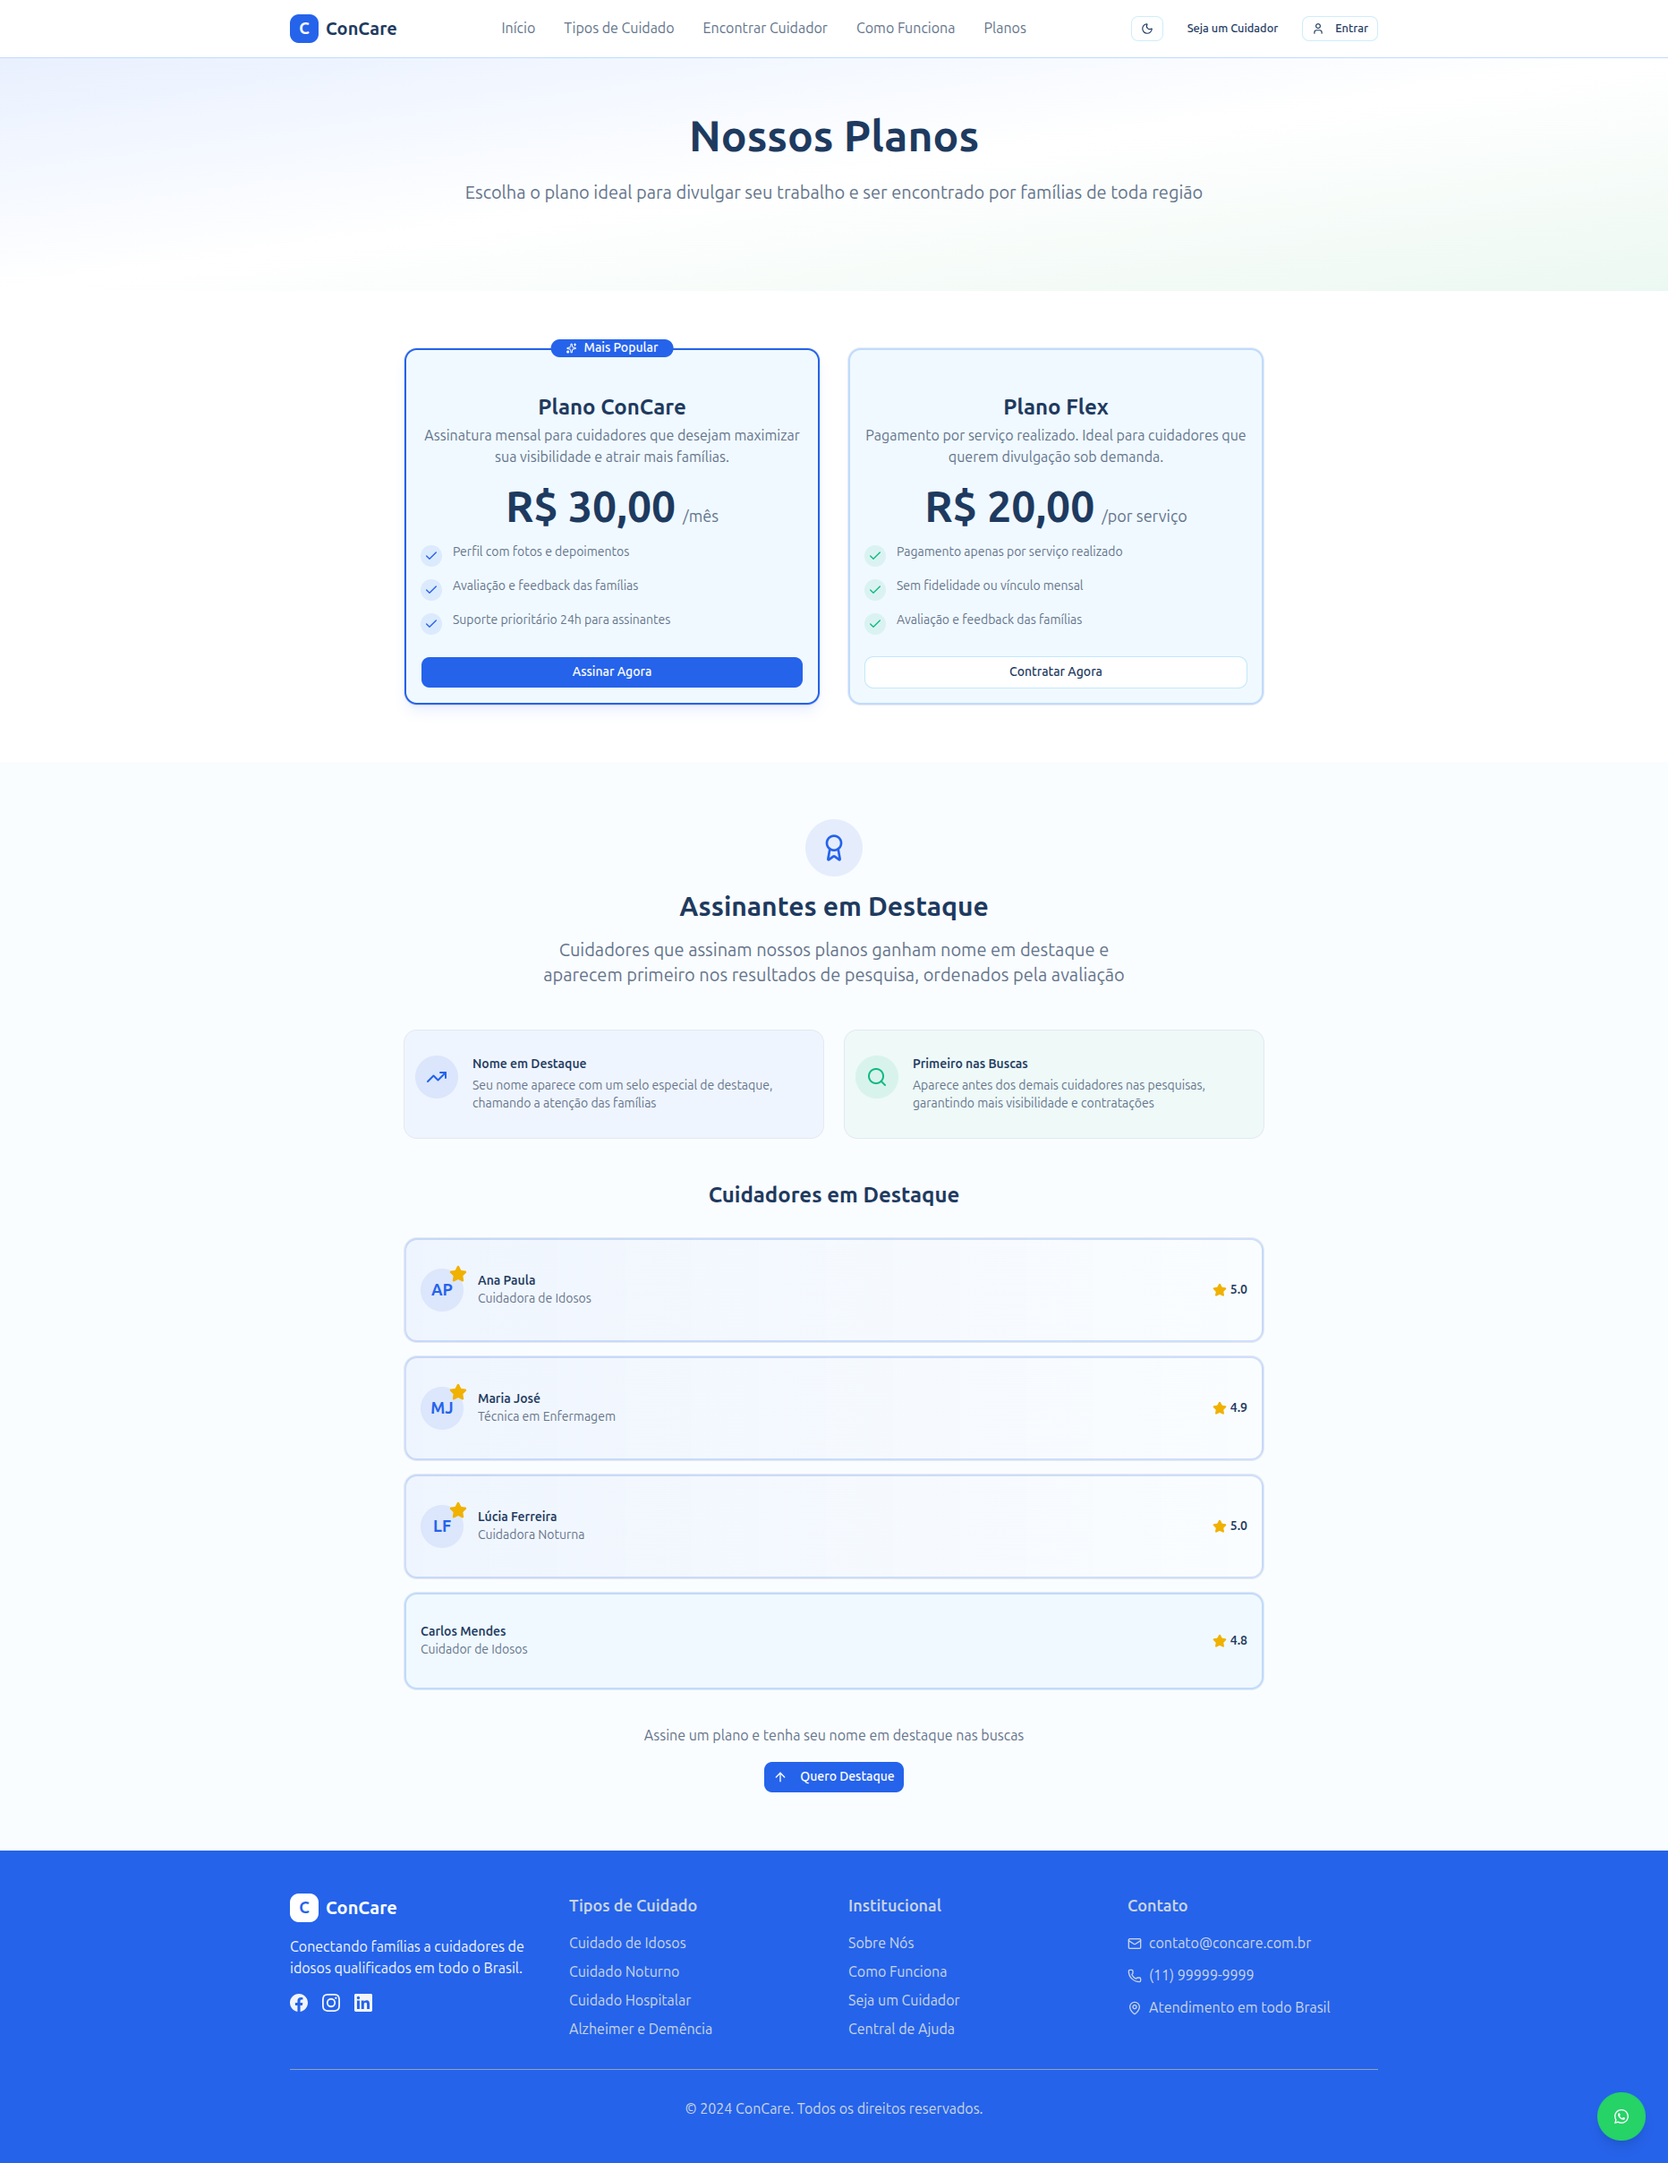
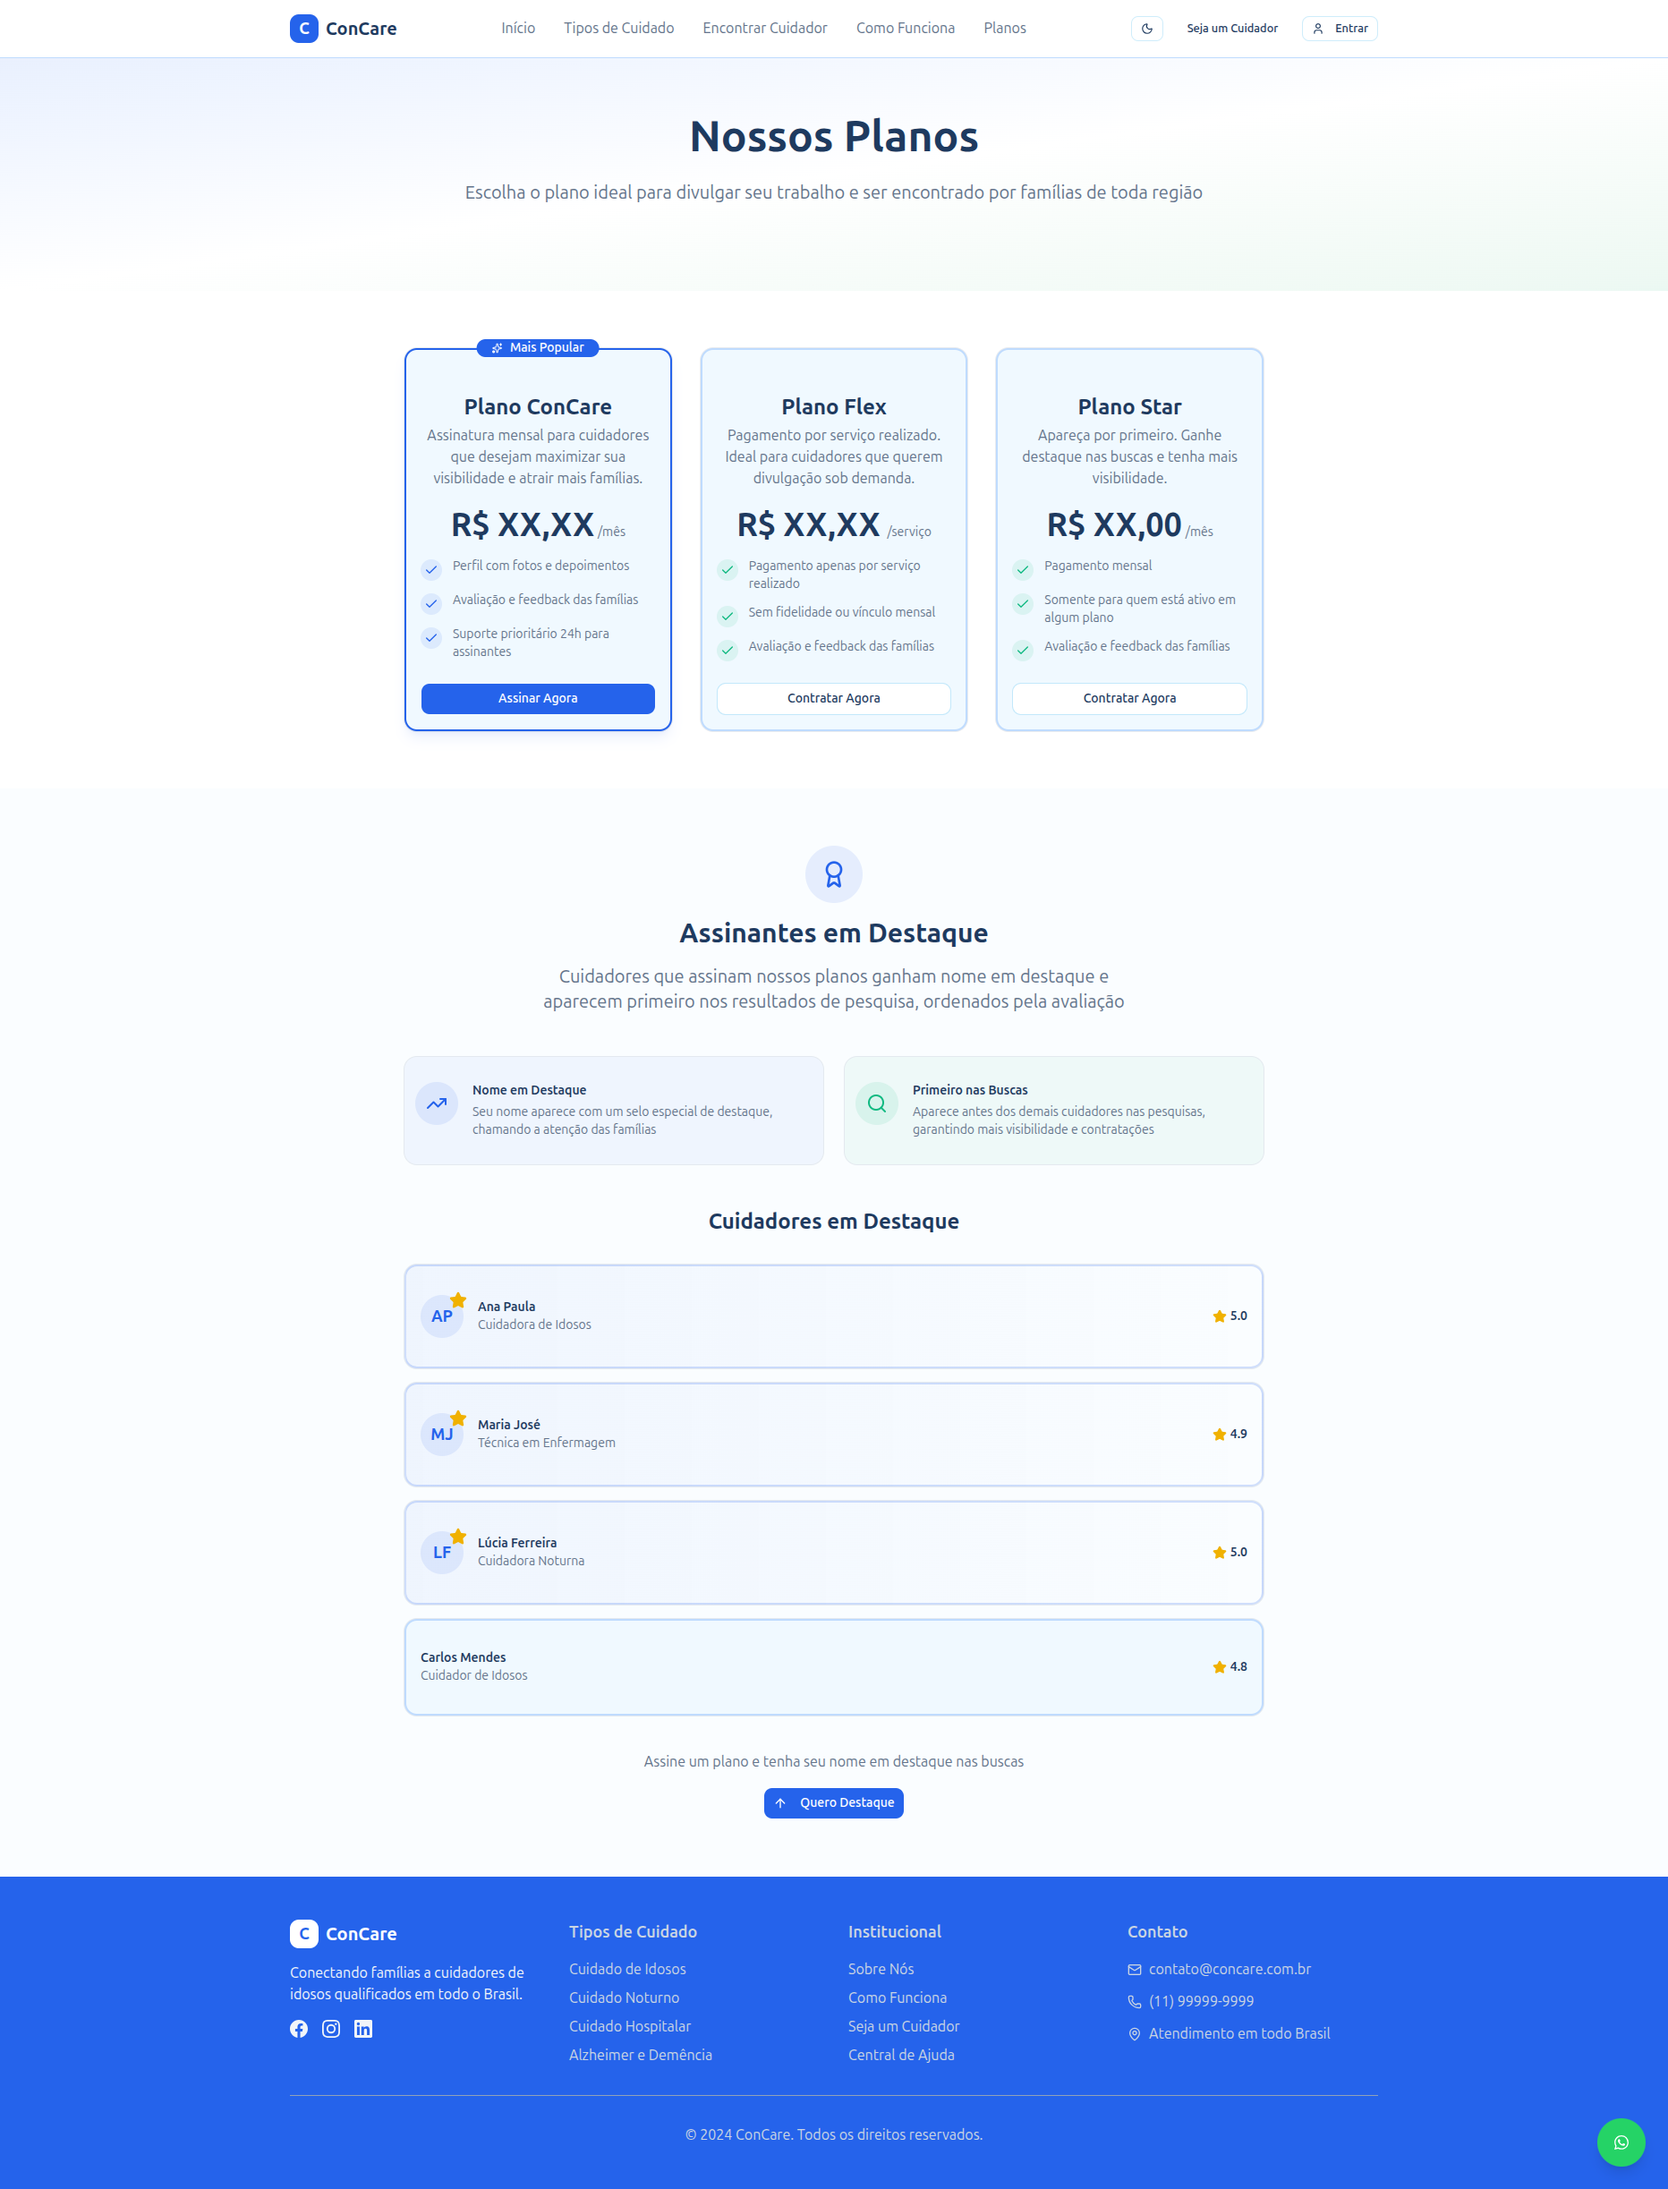
Plans

diff --git a/src/pages/PlanosPage.jsx b/src/pages/PlanosPage.jsx
@@ -8,7 +8,7 @@ import { Check, Star, Sparkles, TrendingUp, Search, Award, ArrowUp } from "lucid
 
 const planoMensal = {
     nome: "Plano ConCare",
-    preco: "30,00",
+    preco: "XX,XX",
     periodo: "mês",
     descricao: "Assinatura mensal para cuidadores que desejam maximizar sua visibilidade e atrair mais famílias.",
     destaque: true,
@@ -21,13 +21,26 @@ const planoMensal = {
 
 const planoOnDemand = {
     nome: "Plano Flex",
-    preco: "20,00",
-    periodo: "por serviço",
+    preco: "XX,XX",
+    periodo: "serviço",
     descricao: "Pagamento por serviço realizado. Ideal para cuidadores que querem divulgação sob demanda.",
     destaque: false,
     beneficios: [
         "Pagamento apenas por serviço realizado",
         "Sem fidelidade ou vínculo mensal",
+        "Avaliação e feedback das famílias",
+    ],
+}
+
+const planoStar = {
+    nome: "Plano Star",
+    preco: "XX,00",
+    periodo: "mês",
+    descricao: "Apareça por primeiro. Ganhe destaque nas buscas e tenha mais visibilidade.",
+    destaque: false,
+    beneficios: [
+        "Pagamento mensal",
+        "Somente para quem está ativo em algum plano",
         "Avaliação e feedback das famílias",
     ],
 }
@@ -77,7 +90,7 @@ export default function PlanosPage() {
 
                 <section className="py-16 bg-background">
                     <div className="max-w-5xl mx-auto px-4 sm:px-6 lg:px-8">
-                        <div className="grid md:grid-cols-2 gap-8">
+                        <div className="grid md:grid-cols-3 gap-8">
                             <Card className={`relative border-2 overflow-visible ${planoMensal.destaque ? 'border-primary shadow-lg shadow-primary/10' : 'border-border'}`}>
                                 {planoMensal.destaque && (
                                     <Badge className="absolute -top-3 left-1/2 -translate-x-1/2 bg-primary text-primary-foreground px-4 py-1 text-sm">
@@ -89,8 +102,8 @@ export default function PlanosPage() {
                                     <CardTitle className="text-2xl font-bold">{planoMensal.nome}</CardTitle>
                                     <CardDescription className="text-base">{planoMensal.descricao}</CardDescription>
                                     <div className="mt-4">
-                                        <span className="text-5xl font-bold text-foreground">R$ {planoMensal.preco}</span>
-                                        <span className="text-muted-foreground text-lg ml-2">/{planoMensal.periodo}</span>
+                                        <span className="text-4xl font-bold text-foreground">R$ {planoMensal.preco}</span>
+                                        <span className="text-muted-foreground text-md ml-1">/{planoMensal.periodo}</span>
                                     </div>
                                 </CardHeader>
                                 <CardContent className="space-y-6">
@@ -115,13 +128,39 @@ export default function PlanosPage() {
                                     <CardTitle className="text-2xl font-bold">{planoOnDemand.nome}</CardTitle>
                                     <CardDescription className="text-base">{planoOnDemand.descricao}</CardDescription>
                                     <div className="mt-4">
-                                        <span className="text-5xl font-bold text-foreground">R$ {planoOnDemand.preco}</span>
-                                        <span className="text-muted-foreground text-lg ml-2">/{planoOnDemand.periodo}</span>
+                                        <span className="text-4xl font-bold text-foreground">R$ {planoOnDemand.preco}</span>
+                                        <span className="text-muted-foreground text-md ml-2">/{planoOnDemand.periodo}</span>
                                     </div>
                                 </CardHeader>
                                 <CardContent className="space-y-6">
                                     <ul className="space-y-3">
                                         {planoOnDemand.beneficios.map((beneficio, index) => (
+                                            <li key={index} className="flex items-start gap-3">
+                                                <div className="w-6 h-6 bg-secondary/10 rounded-full flex items-center justify-center flex-shrink-0 mt-0.5">
+                                                    <Check className="w-4 h-4 text-secondary" />
+                                                </div>
+                                                <span className="text-muted-foreground">{beneficio}</span>
+                                            </li>
+                                        ))}
+                                    </ul>
+                                    <Button variant="outline" className="w-full border-accent/20" size="lg">
+                                        Contratar Agora
+                                    </Button>
+                                </CardContent>
+                            </Card>
+
+                            <Card className="border-border border-2">
+                                <CardHeader className="text-center pt-8">
+                                    <CardTitle className="text-2xl font-bold">{planoStar.nome}</CardTitle>
+                                    <CardDescription className="text-base">{planoStar.descricao}</CardDescription>
+                                    <div className="mt-4">
+                                        <span className="text-4xl font-bold text-foreground">R$ {planoStar.preco}</span>
+                                        <span className="text-muted-foreground text-md ml-1">/{planoStar.periodo}</span>
+                                    </div>
+                                </CardHeader>
+                                <CardContent className="space-y-6">
+                                    <ul className="space-y-3">
+                                        {planoStar.beneficios.map((beneficio, index) => (
                                             <li key={index} className="flex items-start gap-3">
                                                 <div className="w-6 h-6 bg-secondary/10 rounded-full flex items-center justify-center flex-shrink-0 mt-0.5">
                                                     <Check className="w-4 h-4 text-secondary" />
